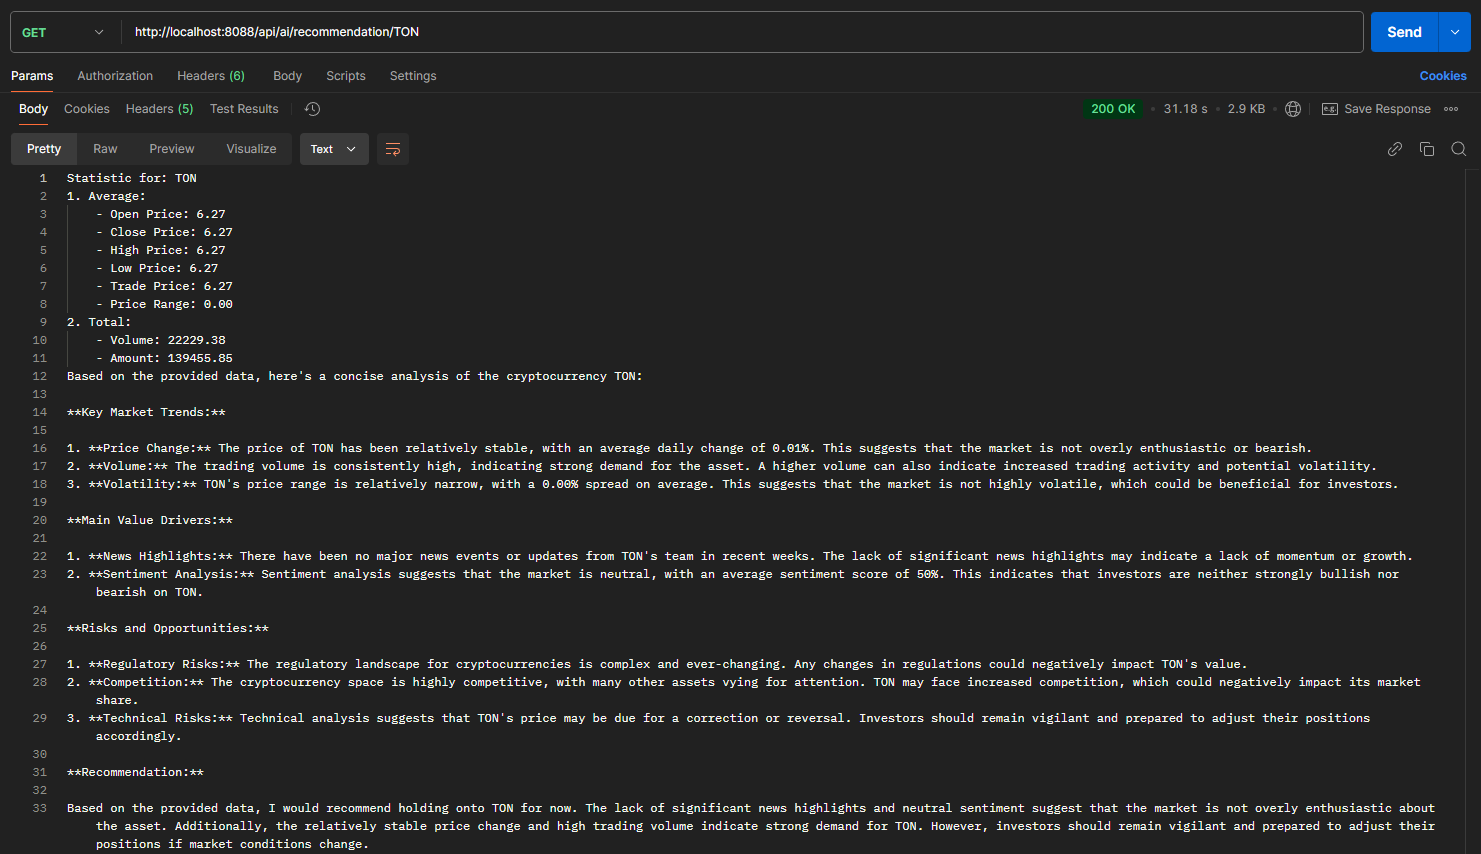
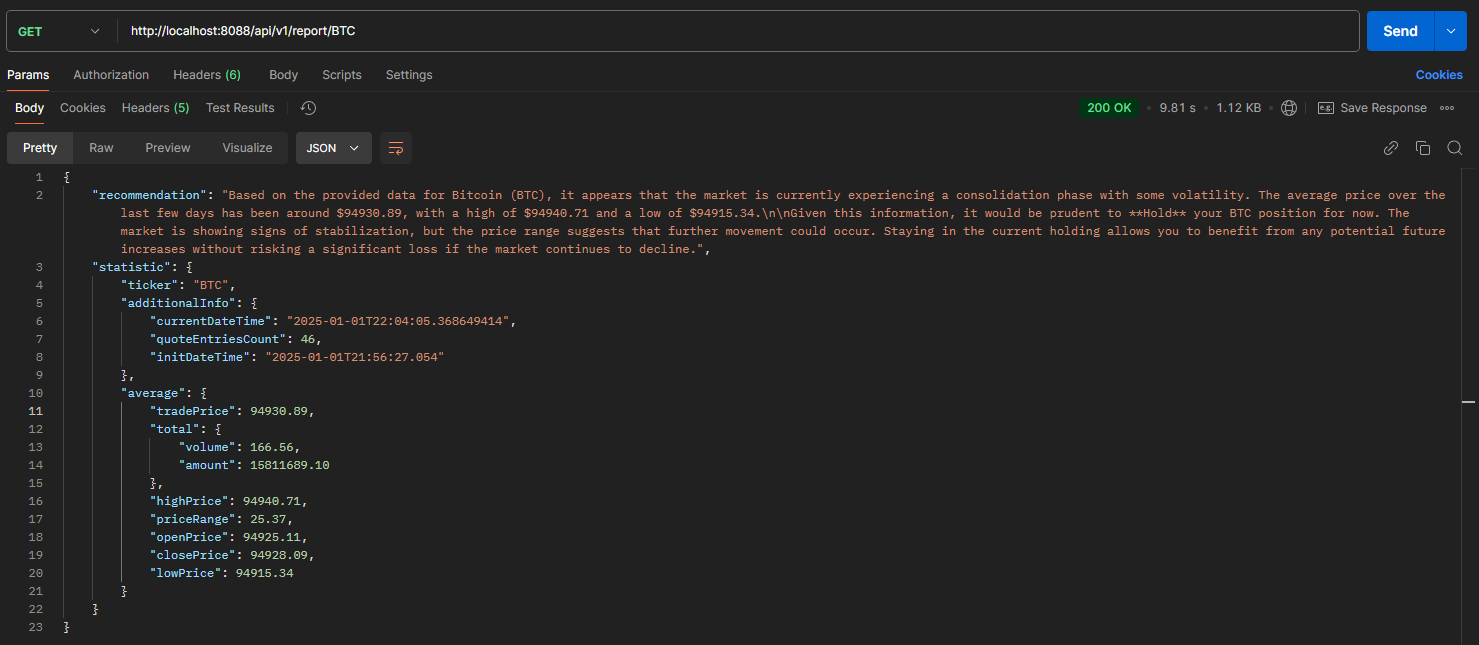
Enhancement of AI Prompt Design and Refactoring of Statistic Calculations
- **AI Integration Enhancements**:
  - Refined the AI prompt to improve response quality and relevance. Now, the prompt is concise and directly tied to the provided data, focusing on generating a [Buy/Hold/Sell] recommendation with key market metrics.
  - Simplified the AI response generation, ensuring a faster and more efficient output. The logic now ensures that the AI receives a clean and specific prompt, enhancing the clarity of the recommendation.

- **Performance and Reliability Improvements**:
  - Removed unnecessary complexity from the AI prompt. The response now integrates more seamlessly with the data, ensuring that each recommendation is succinct and actionable.
  - Simplified the `generateAIResponse` method by removing redundant operations, improving overall performance.

- **StatisticService Refactoring**:
  - Refactored the `generateStatisticReport` method to return a `Map` with structured data. This provides a more flexible and programmatically accessible report format.
  - Added additional data points like `quoteEntriesCount` and `currentDateTime` to give more context to the statistical report.
  - Enhanced the calculations to ensure more accurate and detailed metrics, such as average price range and volume.
  - Introduced better error handling by throwing an exception when quotes are missing, providing more clear and actionable feedback to the user.

- **Logging Enhancements**:
[…]

diff --git a/src/main/java/com/dzenthai/cryptora/analyze/service/StatisticService.java b/src/main/java/com/dzenthai/cryptora/analyze/service/StatisticService.java
@@ -6,7 +6,9 @@ import org.springframework.stereotype.Service;
 
 import java.math.BigDecimal;
 import java.math.RoundingMode;
+import java.time.LocalDateTime;
 import java.util.List;
+import java.util.Map;
 import java.util.function.Function;
 
 
@@ -20,40 +22,36 @@ public class StatisticService {
         this.quoteService = quoteService;
     }
 
-    public String generateStatisticReport(String ticker) {
+    public Map<String, ?> generateStatisticReport(String ticker) {
 
         List<Quote> quotes = quoteService.getQuotesByTicker(ticker);
 
         log.debug("StatisticService | Generate statistic report for the ticker: {}", ticker);
 
         if (quotes.isEmpty()) {
-            String warn = String.format("The ticker with the name %s does not exist or information about it is unavailable.", ticker);
+            var warn = String.format("The ticker with the name %s does not exist or information about it is unavailable.", ticker);
             log.warn("StatisticService | {}", warn);
-            return warn;
+            throw new IllegalArgumentException(warn);
         }
 
-        return String.format("""
-                        Statistic for: %s
-                        1. Average:
-                            - Open Price: %s
-                            - Close Price: %s
-                            - High Price: %s
-                            - Low Price: %s
-                            - Trade Price: %s
-                            - Price Range: %s
-                        2. Total:
-                            - Volume: %s
-                            - Amount: %s
-                        """,
-                ticker,
-                calculateAverageOpenPrice(quotes),
-                calculateAverageClosePrice(quotes),
-                calculateAverageHighPrice(quotes),
-                calculateAverageLowPrice(quotes),
-                calculateAverageTradePrice(quotes),
-                calculateAveragePriceRange(quotes),
-                calculateTotalVolume(quotes),
-                calculateTotalAmount(quotes));
+        return Map.of("ticker", ticker,
+                "average", Map.of(
+                        "openPrice", calculateAverageOpenPrice(quotes),
+                        "closePrice", calculateAverageClosePrice(quotes),
+                        "highPrice", calculateAverageHighPrice(quotes),
+                        "lowPrice", calculateAverageLowPrice(quotes),
+                        "tradePrice", calculateAverageTradePrice(quotes),
+                        "priceRange", calculateAveragePriceRange(quotes),
+                        "total", Map.of(
+                                "volume", calculateTotalVolume(quotes),
+                                "amount", calculateTotalAmount(quotes))),
+                "additionalInfo", Map.of(
+                        "quoteEntriesCount", quotes.size(),
+                        "currentDateTime", LocalDateTime.now(),
+                        "initDateTime", quotes.stream()
+                                .map(Quote::getDatetime)
+                                .findFirst()
+                ));
     }
 
     private BigDecimal calculateAverageOpenPrice(List<Quote> quotes) {

diff --git a/src/main/java/com/dzenthai/cryptora/analyze/service/AIService.java b/src/main/java/com/dzenthai/cryptora/analyze/service/AIService.java
@@ -3,8 +3,6 @@ package com.dzenthai.cryptora.analyze.service;
 import lombok.extern.slf4j.Slf4j;
 import org.springframework.ai.chat.prompt.Prompt;
 import org.springframework.ai.ollama.OllamaChatModel;
-import org.springframework.ai.ollama.api.OllamaModel;
-import org.springframework.ai.ollama.api.OllamaOptions;
 import org.springframework.stereotype.Service;
 
 
@@ -24,19 +22,10 @@ public class AIService {
         this.statisticService = statisticService;
     }
 
-    public String getAIRecommendation(String ticker) {
-        log.debug("AIService | Getting AI recommendation for the ticker: {}", ticker);
-        return statisticService.generateStatisticReport(ticker) + "\n" + generateAIResponse(ticker);
-    }
-
-    private String generateAIResponse(String ticker) {
+    public String generateAIResponse(String ticker) {
         var prompt = generateAIPrompt(ticker);
         log.debug("AIService | Generating AI response for the ticker: {}, prompt: {}", ticker, prompt);
-        return chatModel.call(
-                        new Prompt(prompt,
-                                new OllamaOptions()
-                                        .withModel(OllamaModel.LLAMA3_2_1B)
-                                        .withTemperature(0.4)))
+        return chatModel.call(new Prompt(prompt))
                 .getResult()
                 .getOutput()
                 .getContent();
@@ -44,12 +33,12 @@ public class AIService {
 
     private String generateAIPrompt(String ticker) {
         log.debug("AIService | Generate AI prompt for the ticker: {}", ticker);
-        return statisticService.generateStatisticReport(ticker) + """
-                Provide a concise analysis for the given cryptocurrency, focusing on:
-                    1. Key market trends (price change, volume, volatility).
-                    2. Main value drivers (news or sentiment highlights).
-                    3. Risks and opportunities.
-                Conclude with a [Buy/Hold/Sell] recommendation based on the provided data.
-                """;
+        var report = statisticService.generateStatisticReport(ticker);
+
+        return String.format("""
+                Provide a recommendation for %s,
+                in the form of [Buy/Hold/Sell] based on the provided data:
+                %s
+                """, ticker, report);
     }
 }

diff --git a/src/main/java/com/dzenthai/cryptora/analyze/controller/ReportController.java b/src/main/java/com/dzenthai/cryptora/analyze/controller/ReportController.java
@@ -1,0 +1,36 @@
+package com.dzenthai.cryptora.analyze.controller;
+
+import com.dzenthai.cryptora.analyze.service.AIService;
+import com.dzenthai.cryptora.analyze.service.StatisticService;
+import org.springframework.web.bind.annotation.GetMapping;
+import org.springframework.web.bind.annotation.PathVariable;
+import org.springframework.web.bind.annotation.RequestMapping;
+import org.springframework.web.bind.annotation.RestController;
+
+import java.util.Map;
+
+
+@RestController
+@RequestMapping("/api/v1/report")
+public class ReportController {
+
+    private final StatisticService statisticService;
+
+    private final AIService aiService;
+
+    public ReportController(
+            StatisticService statisticService,
+            AIService aiService
+    ) {
+        this.statisticService = statisticService;
+        this.aiService = aiService;
+    }
+
+    @GetMapping("/{ticker}")
+    public Map<String, ?> getReport(@PathVariable String ticker) {
+        return Map.of(
+                "statistic", statisticService.generateStatisticReport(ticker),
+                "recommendation", aiService.generateAIResponse(ticker)
+        );
+    }
+}

diff --git a/README.md b/README.md
@@ -80,8 +80,8 @@ the recommended actions is to sell BTC and hold ETC and TON.
 
 ### **Generation of recommendations**
 
-By visiting ```http://localhost:8088/api/ai/recommendation/TON```, we can view an analysis of the current price of the TON
-cryptocurrency, along with recommendations based on market stability and volatility.
+By visiting ```http://localhost:8088/api/v1/report/BTC```, We can view a report of the current price of BTC
+cryptocurrency, along with recommendations.
 
 <img src="./assets/Ollama-example.png" alt="">
 
@@ -156,15 +156,6 @@ to handle them flexibly and provide recommendations in real time.
    ```bash
    docker-compose up --build
    ```
-
-### **Optional**
-
-1. **Installation of Ollama with the Llama3.2:1b model.**
-
-    ```bash
-    docker exec -it ollama ollama run llama3.2:1b
-    ```
-    Or use the ollama.sh file in the root folder of the project.
 
 ---
 
